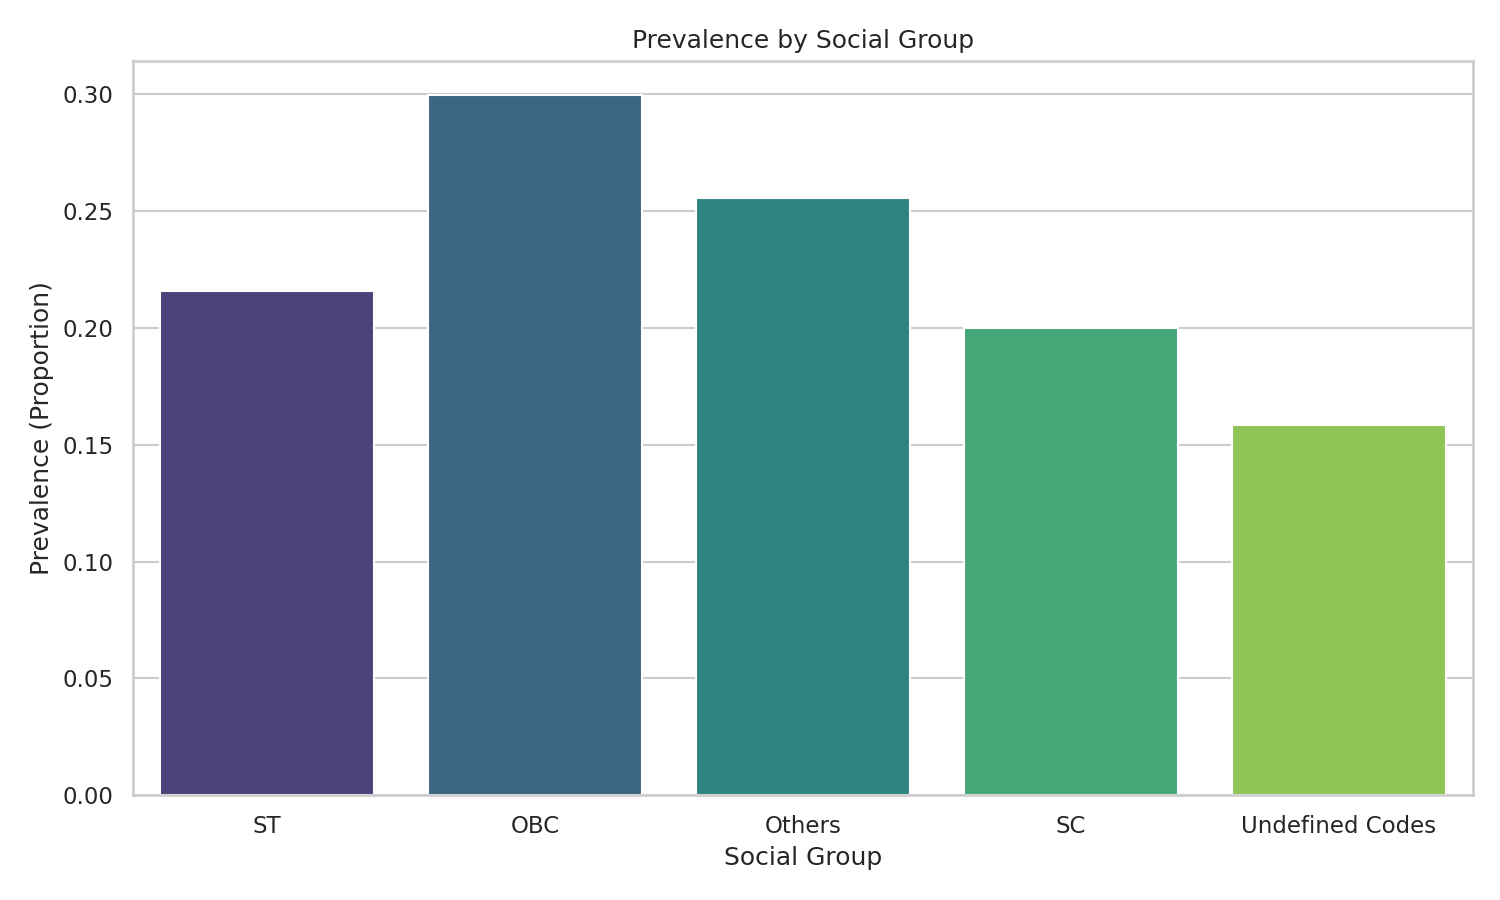
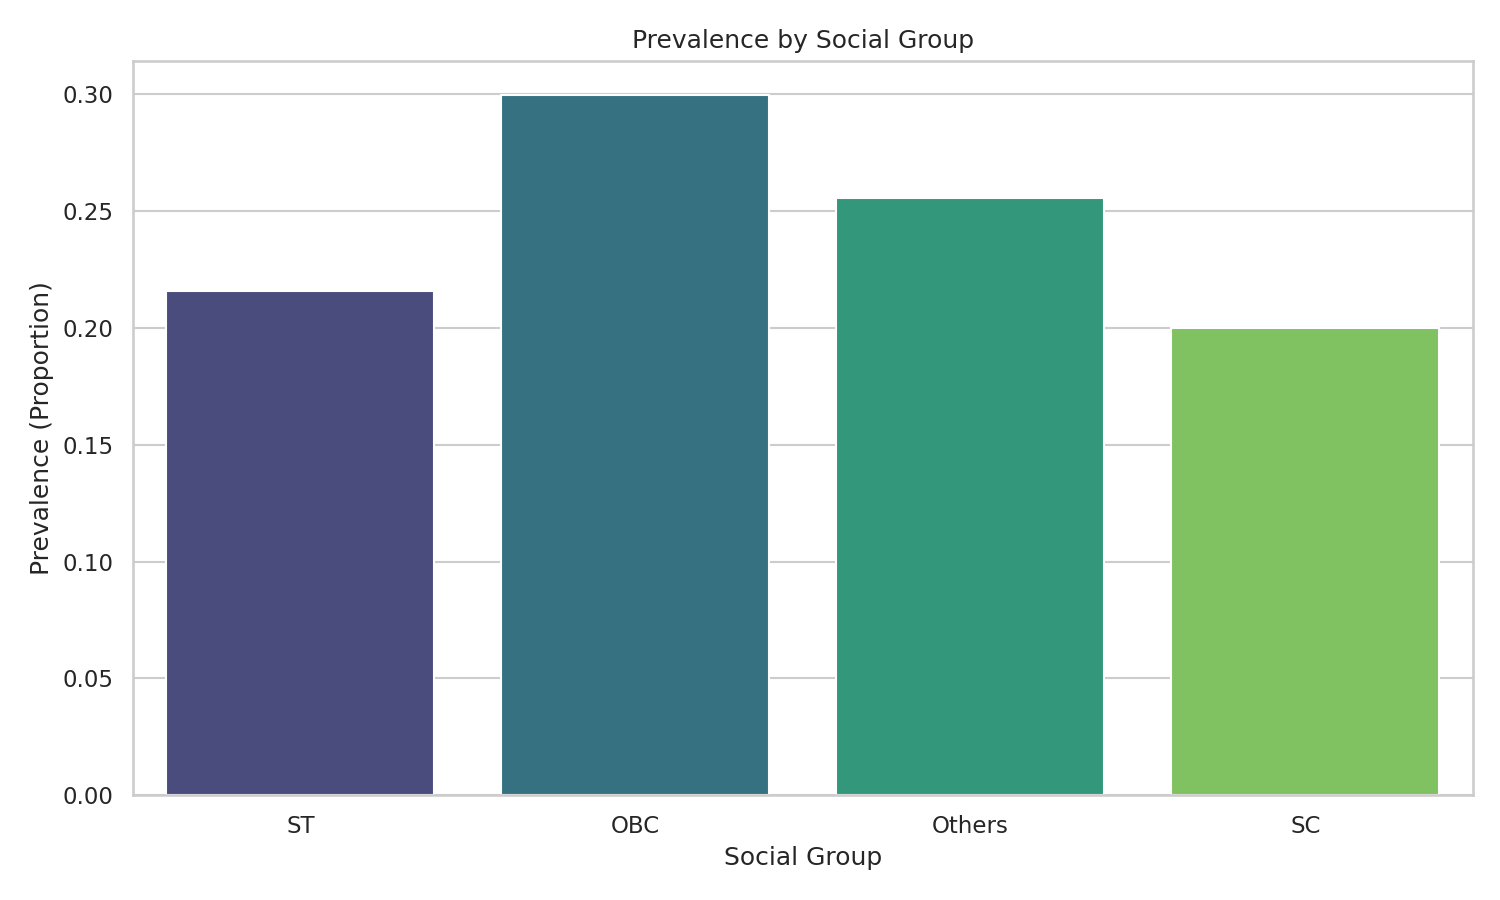
data cleaned further

diff --git a/rmhs_1.py b/rmhs_1.py
@@ -54,11 +54,15 @@ odisha_df['Family_Size_Bin'] = pd.cut(
     labels=['Small (1-3)', 'Medium (4-6)', 'Large (7+)']
 )
 
-# E. [UPDATED] Social Group Label
-# 1=ST, 2=SC, 3=OBC, 9=Others. 
-# Anything else (4, 5, 10) becomes 'Undefined Codes'.
+# E. [CLEANING] Social Group Label
+# Standard Codes: 1=ST, 2=SC, 3=OBC, 9=Others
+# We FILTER OUT any rows with undefined codes (like 4, 5, 10) to strictly clean the data.
+valid_social_groups = [1, 2, 3, 9]
+odisha_df = odisha_df[odisha_df['Social_group'].isin(valid_social_groups)].copy()
+
 social_map = {1: 'ST', 2: 'SC', 3: 'OBC', 9: 'Others'}
-odisha_df['Social_Group_Label'] = odisha_df['Social_group'].map(social_map).fillna('Undefined Codes')
+odisha_df['Social_Group_Label'] = odisha_df['Social_group'].map(social_map)
+print(f"✅ Cleaned Social Groups. New Sample Size: {len(odisha_df)}")
 
 # F. Source of Finance Label
 finance_map = {0: 'None', 1: 'Income/Savings', 2: 'Borrowings', 3: 'Sale of Assets', 4: 'Friends/Family', 9: 'Other'}
@@ -134,7 +138,7 @@ plt.savefig("graph3_expenditure_boxplot.png", dpi=150)
 plt.close()
 print("Saved: graph3_expenditure_boxplot.png")
 
-# Graph 4: Prevalence by Social Group (Updated Labeling)
+# Graph 4: Prevalence by Social Group (Cleaned)
 plt.figure(figsize=(10, 6))
 sns.barplot(data=odisha_df, x='Social_Group_Label', y='Has_Ailment', palette="viridis", estimator=np.mean, errorbar=None, hue='Social_Group_Label', legend=False)
 plt.title('Prevalence by Social Group')

diff --git a/rmhs_1.md b/rmhs_1.md
@@ -15,13 +15,22 @@ Files produced:
 - Tables: [odisha_analysis_tables.txt](odisha_analysis_tables.txt)
 - Graphs: `graph1_prevalence_econ_sector.png`, `graph2_seeking_rate.png`, `graph3_expenditure_boxplot.png`, `graph4_prevalence_social_group.png`, `graph5_prevalence_family_size.png`, `graph6_source_finance.png` (all saved in the working directory).
 
+Files produced:
+- Tables: [odisha_analysis_tables.txt](odisha_analysis_tables.txt)
+- Graphs: `graph1_prevalence_econ_sector.png`, `graph2_seeking_rate.png`, `graph3_expenditure_boxplot.png`, `graph4_prevalence_social_group.png`, `graph5_prevalence_family_size.png`, `graph6_source_finance.png` (all saved in the working directory).
+
 ## Data cleaning & feature engineering (sections A–I in code)
 - A. Missing values: columns `prop_spells_treated` and `Major_source_of_finance` are filled with 0 via `DataFrame.fillna(0)`.
 - B. Outlier handling: `Household_usual_consumer_expendi` is capped at its 99th percentile (`exp_cap`) and saved as `Household_usual_consumer_expendi_clean` using `np.where`.
 - C. Economic status: `pd.qcut` on the cleaned expenditure divides households into 4 quartile bins labeled `['Poorest','Lower Middle','Upper Middle','Richest']` and stored in `Economic_Status`.
+- B. [CRITICAL FIX] Invalid/Unrealistic Expenditure Removal and Recalculation:
+  - The code first removes households with `Household_usual_consumer_expendi` <= 100 (treated as unrealistic for this analysis) and creates `valid_exp_df` for subsequent steps.
+  - The 99th percentile (`exp_cap`) is computed on `valid_exp_df` and capping is applied there; quartiles (`Economic_Status`) are then created from the capped, valid expenditures.
+  - After these steps the script replaces `odisha_df` with `valid_exp_df`, so subsequent tables/plots use the cleaned sample.
 - D. Sector label: maps numeric `Sector` codes to `'Rural'`/`'Urban'` into `Sector_Label` via `Series.map`.
 - E. Family size bins: `pd.cut` on `Household_size` with bins [0,3,6,20] giving labels `'Small (1-3)'`, `'Medium (4-6)'`, `'Large (7+)'` stored in `Family_Size_Bin`.
 - F. Social group: maps `Social_group` codes to labels (`ST`, `SC`, `OBC`, `Others`) stored in `Social_Group_Label`.
+- E. Social group cleaning: before mapping, the script filters `Social_group` to only keep standard codes `[1,2,3,9]` and removes rows with undefined/nonstandard codes. This reduces the sample and ensures only valid groups appear in the analysis.
 - G. Financing label: maps `Major_source_of_finance` to human labels saved to `Finance_Label`.
 - H. Prevalence indicator: `Has_Ailment` is binary (1 if `spells_count` > 0 else 0) via `apply(lambda x: 1 if x>0 else 0)`.
 - I. `sick_households` is a subset where `Has_Ailment == 1` (used in treatment- and expenditure-related analyses).
@@ -41,11 +50,15 @@ Tables generated in the script:
 - `table4` — Analysis by `Family_Size_Bin`.
 - `table5` — Cross-tabulation of `sick_households` by `Economic_Status` (rows) vs `Finance_Label` (columns): uses `pd.crosstab(..., normalize='index') * 100` so each row sums to 100 (shows distribution of financing sources within each economic status).
 
+Note: In the code the written header for table 5 is `"--- TABLE 5: SOURCE OF FINANCE (% of Sick HH) ---"`, i.e., the crosstab shows percent distribution of sources among sick households within each economic status.
+
 Writing tables to file:
 - The script writes formatted text into `odisha_analysis_tables.txt` and uses `DataFrame.round(2).to_string()` to write human-readable tables (rounded to 2 decimals). The file includes headers for each table.
 
 ## Plotting methods — file-by-file explanation
 - Global settings: `sns.set_theme(style="whitegrid")` sets Seaborn theme for consistent styling.
+
+Also: after the cleaning steps the script prints the new sample size ("Cleaned Social Groups. New Sample Size: ...") so outputs and plots reflect the filtered sample.
 
 - Graph 1: `graph1_prevalence_econ_sector.png`
   - Plot type: `sns.barplot`
@@ -67,12 +80,16 @@ Writing tables to file:
   - Palette: `Set2`, `legend=False` and `plt.yscale('log')` to show expenditures on a log scale (helps with skew and outliers).
   - Notes: Boxplots per-economic-status show expenditure distribution (log-scale to reduce skew). Because expenditures were capped earlier only expenditure variable was capped indirectly by sick_households selection.
 
+    - Implementation detail: the script subsets `spenders = sick_households[sick_households['outpatient_expenditure_total_Rs'] > 0]` before plotting and applies `plt.yscale('log')` for readability.
+
 - Graph 4: `graph4_prevalence_social_group.png`
   - Plot type: `sns.barplot`
   - Data: `odisha_df`
   - x: `Social_Group_Label`, y: `Has_Ailment` (proportion), hue: `Social_Group_Label` (legend disabled)
   - Palette: `viridis`, estimator: `np.mean` (explicitly set), `errorbar=None`.
   - Notes: Compares prevalence across social groups.
+
+    - Implementation detail: the code explicitly filters social groups to the standard codes before plotting, so the plot title in the script is `Prevalence by Social Group` (and the code comment marks it as "Cleaned").
 
 - Graph 5: `graph5_prevalence_family_size.png`
   - Plot type: `sns.barplot`
